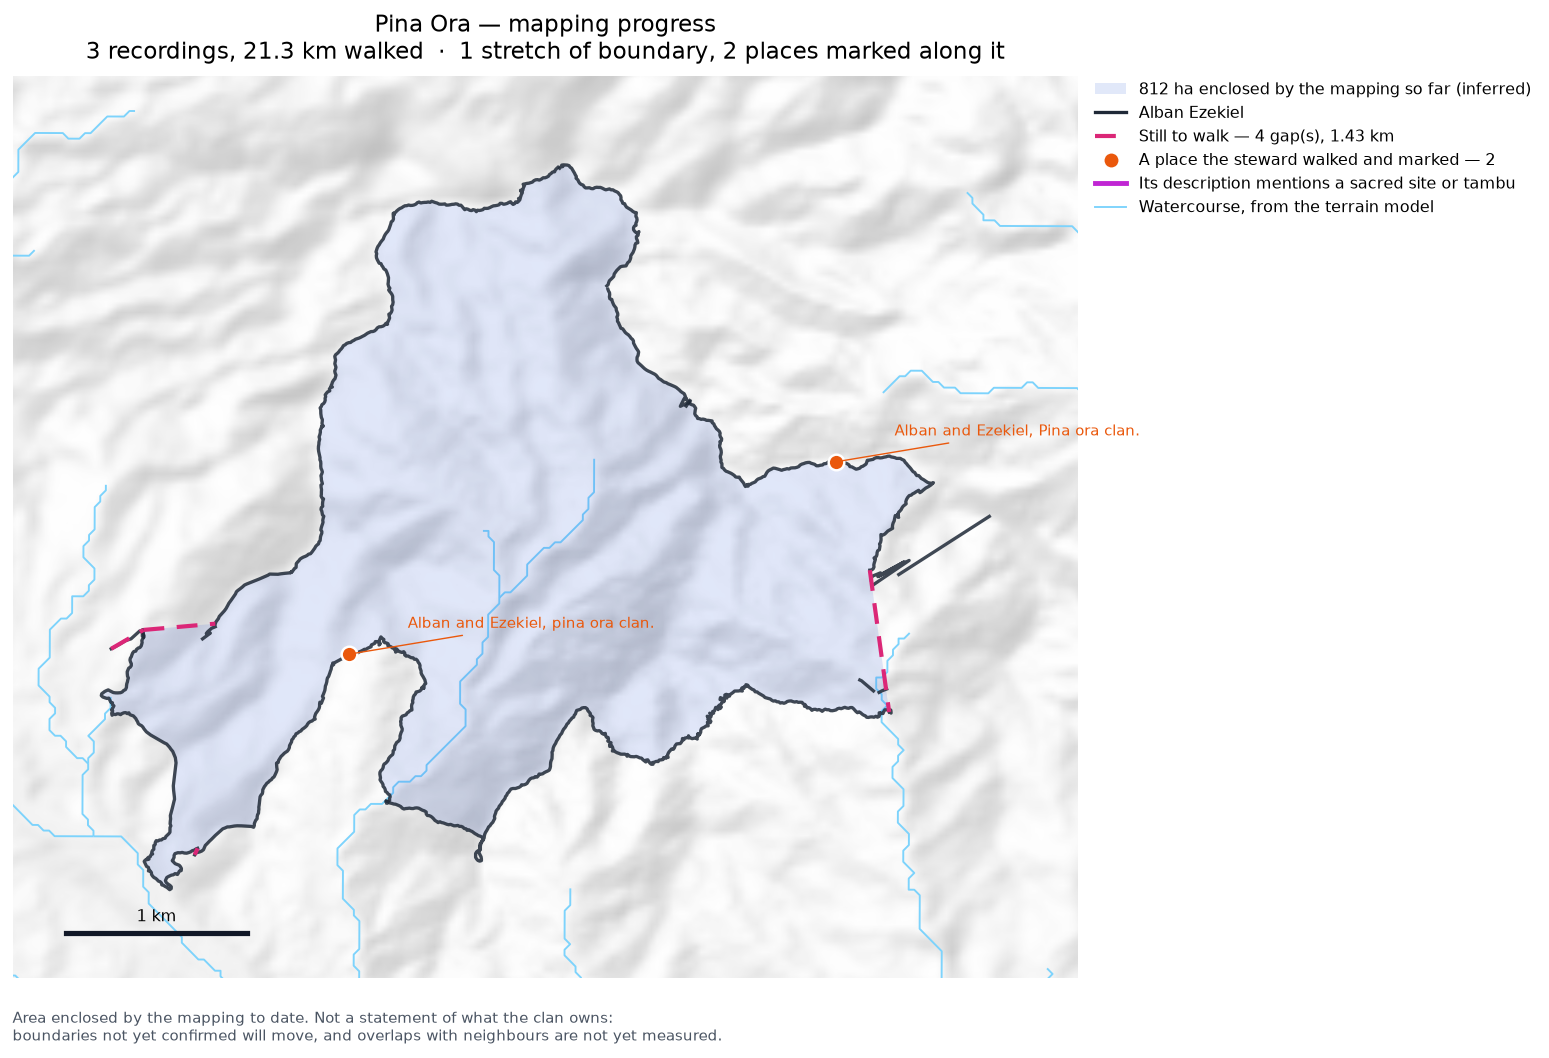
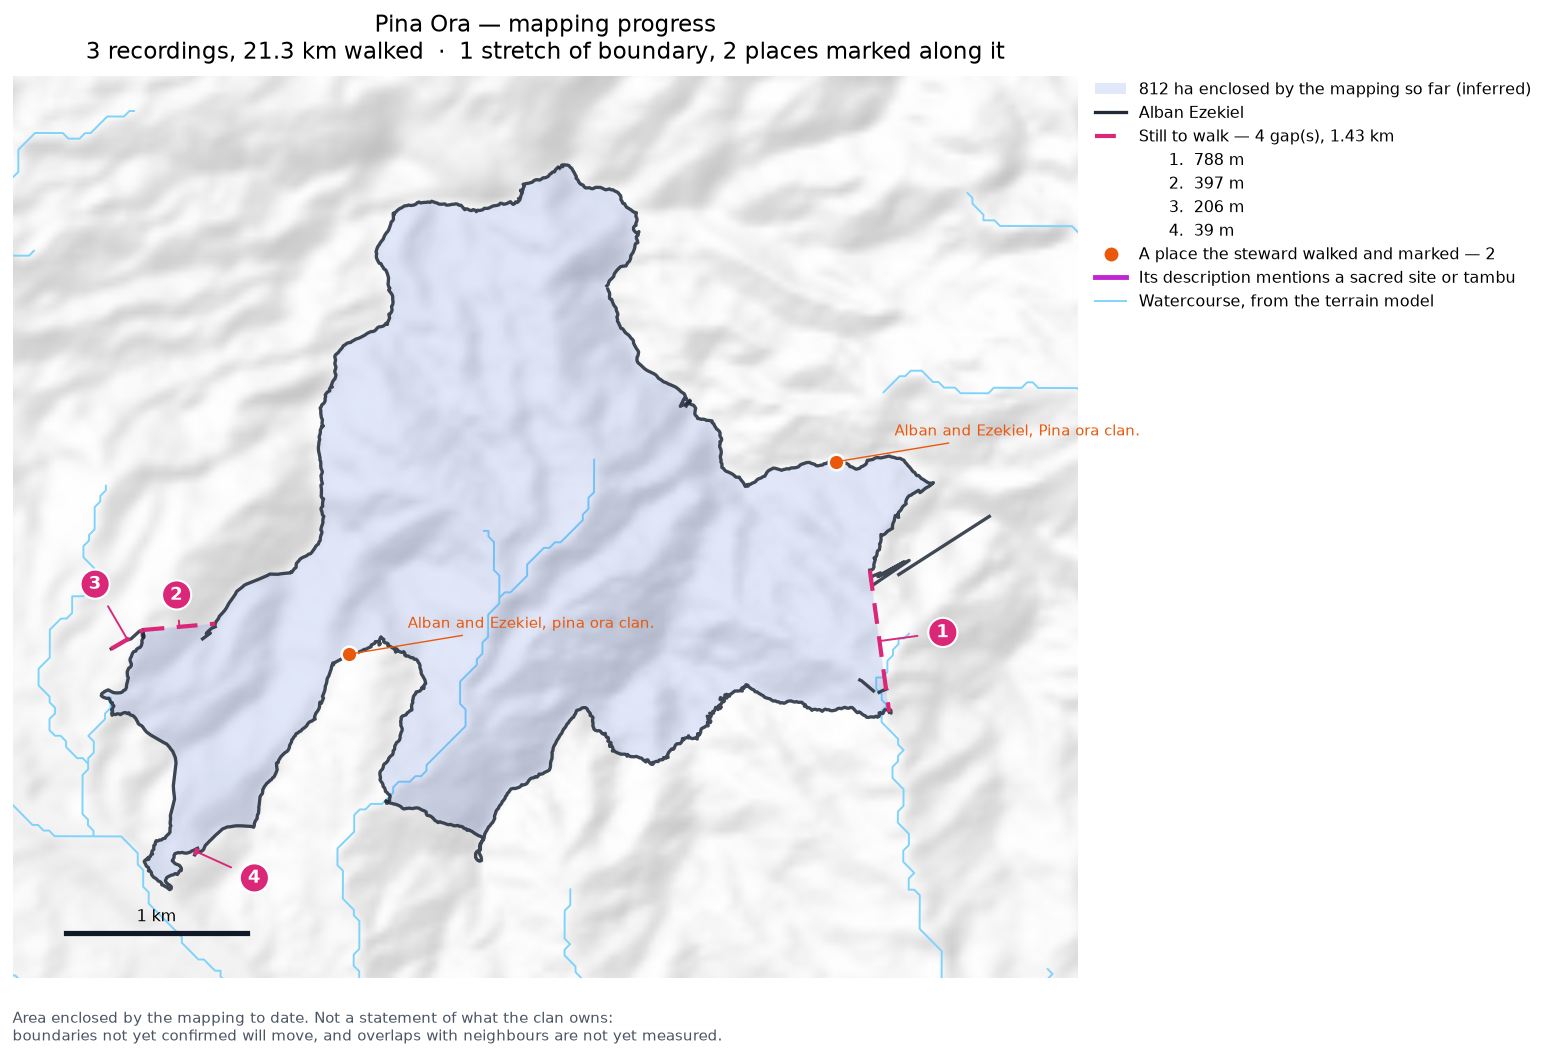
Number the gaps on the everything map
Numbering was standard on the chord map from the first day and was lost
when the review moved to the everything map, so a gap could be seen but
not named — and Pina Ora's 39 m gap 4 could not be found on the map at
all.

Numbers come from the shared register, so they persist between runs: a
closed gap disappears and a new one takes the next number. Labels sit
clear of the land, the walked line and the other gaps, with a leader
back, as rule 5 requires. Each is listed in the legend with its length.

Pina Ora now reads 1: 788 m east, 2: 397 m west, 3: 206 m, 4: 39 m —
1 and 2 the real gaps, 3 and 4 the lines drawn over ground already
walked.

Logged as rule 18, with the wider point it keeps illustrating: a new map
does not inherit what the old map had learned, and the list applies to
whatever map is in front of the reviewer rather than to the script it
was first agreed on.

Claude-Session: https://claude.ai/code/session_01K6X75MkuiGQ9rmgDZx45vk

diff --git a/scripts/everything_map.py b/scripts/everything_map.py
@@ -475,9 +475,46 @@ def main(argv: list[str] | None = None) -> int:
             else:
                 axis.plot(*segment.xy, color="#f59e0b", lw=3.0, zorder=6,
                           linestyle=(0, (7, 2)))
-        for bridge in built["bridges"]:
+        # Numbered, so a gap can be named and discussed. The numbers
+        # come from the shared register, so they survive between runs:
+        # a closed gap disappears and a new one takes the next number.
+        import chord_map as _cm
+        gap_order = sorted(built["bridges"], key=lambda b: -b.length)
+        gap_numbers = _cm.numbering(unit, gap_order)
+        for index, bridge in enumerate(gap_order):
             axis.plot(*bridge.xy, color="#db2777", lw=2.4,
                       linestyle=(0, (5, 3)), zorder=7)
+            middle = bridge.interpolate(0.5, normalized=True)
+            (ax0, ay0), (ax1, ay1) = (bridge.coords[0][:2],
+                                      bridge.coords[-1][:2])
+            dx, dy = ax1 - ax0, ay1 - ay0
+            span = (dx * dx + dy * dy) ** 0.5 or 1.0
+            step = (window[2] - window[0]) * 0.030
+            spot = None
+            for reach in range(1, 10):
+                for sign in (1, -1):
+                    here = Point(middle.x - dy / span * step * reach * sign,
+                                 middle.y + dx / span * step * reach * sign)
+                    if built["geometry"].contains(here):
+                        continue
+                    if min(walked_union.distance(here),
+                           min(b.distance(here) for b in gap_order)) >= step:
+                        spot = here
+                        break
+                if spot is not None:
+                    break
+            if spot is None:
+                spot = Point(middle.x - dy / span * step,
+                             middle.y + dx / span * step)
+            axis.annotate(str(gap_numbers[index]), (middle.x, middle.y),
+                          xytext=(spot.x, spot.y), fontsize=10.5,
+                          fontweight="bold", color="white", ha="center",
+                          va="center", zorder=10,
+                          arrowprops=dict(arrowstyle="-", color="#db2777",
+                                          lw=1.1, shrinkA=6, shrinkB=1),
+                          bbox=dict(boxstyle="circle,pad=0.30",
+                                    facecolor="#db2777", edgecolor="white",
+                                    linewidth=1.2))
 
     # A short recording in the middle of a survey is a feature the steward
     # stopped to mark, not a stretch of boundary, and what he wrote on it
@@ -619,6 +656,10 @@ def main(argv: list[str] | None = None) -> int:
             [0], [0], color="#db2777", lw=2.4, linestyle=(0, (5, 3)),
             label=f"Still to walk — {len(built['bridges'])} gap(s), "
                   f"{sum(b.length for b in built['bridges']) / 1000:.2f} km"))
+        for index, bridge in enumerate(gap_order):
+            handles.append(Line2D(
+                [0], [0], color="none",
+                label=f"      {gap_numbers[index]}.  {bridge.length:,.0f} m"))
     handles += [
         Line2D([0], [0], marker="o", color="none", markerfacecolor="#ea580c",
                markeredgecolor="white", markersize=9,

diff --git a/docs/MUST_HAVES.md b/docs/MUST_HAVES.md
@@ -115,3 +115,16 @@ Order is the order we agreed them.
     3 and 4. Always render the whole clan after adopting, and withdraw
     rather than keep a correct fix that breaks the boundary.
     *Pina Ora, 11 Oct.*
+
+18. **Number the gaps.** Standard on the chord map from the first day,
+    and dropped when the review moved to the everything map — so a gap
+    could be seen but not named, and one of Pina Ora's four was too
+    small to find at all. Numbers come from the shared register and
+    persist between runs: a closed gap disappears, a new one takes the
+    next number.
+    *Pina Ora, 11 Oct.*
+
+    The wider point, which keeps recurring: a new map does not inherit
+    what the old map had learned. Anything on this list applies to
+    whatever map is in front of the reviewer, not to the script it was
+    first agreed on.
